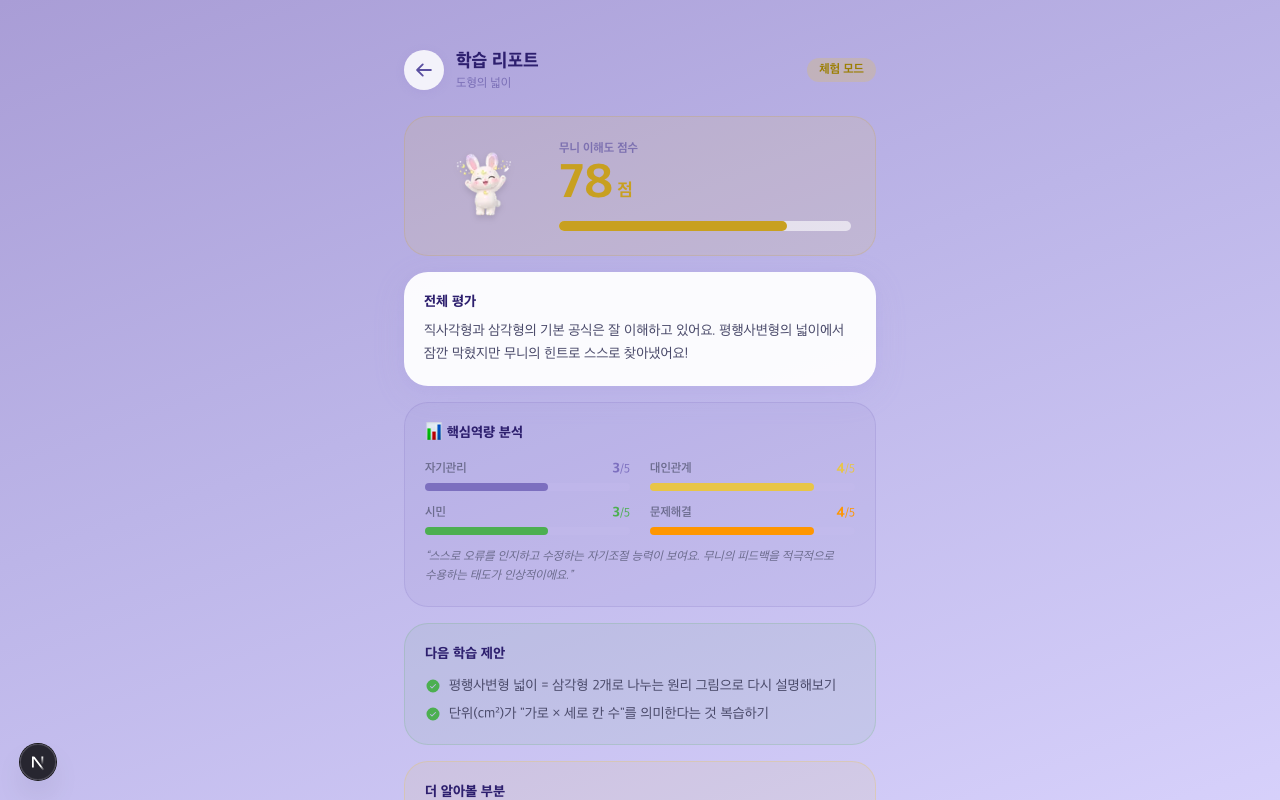
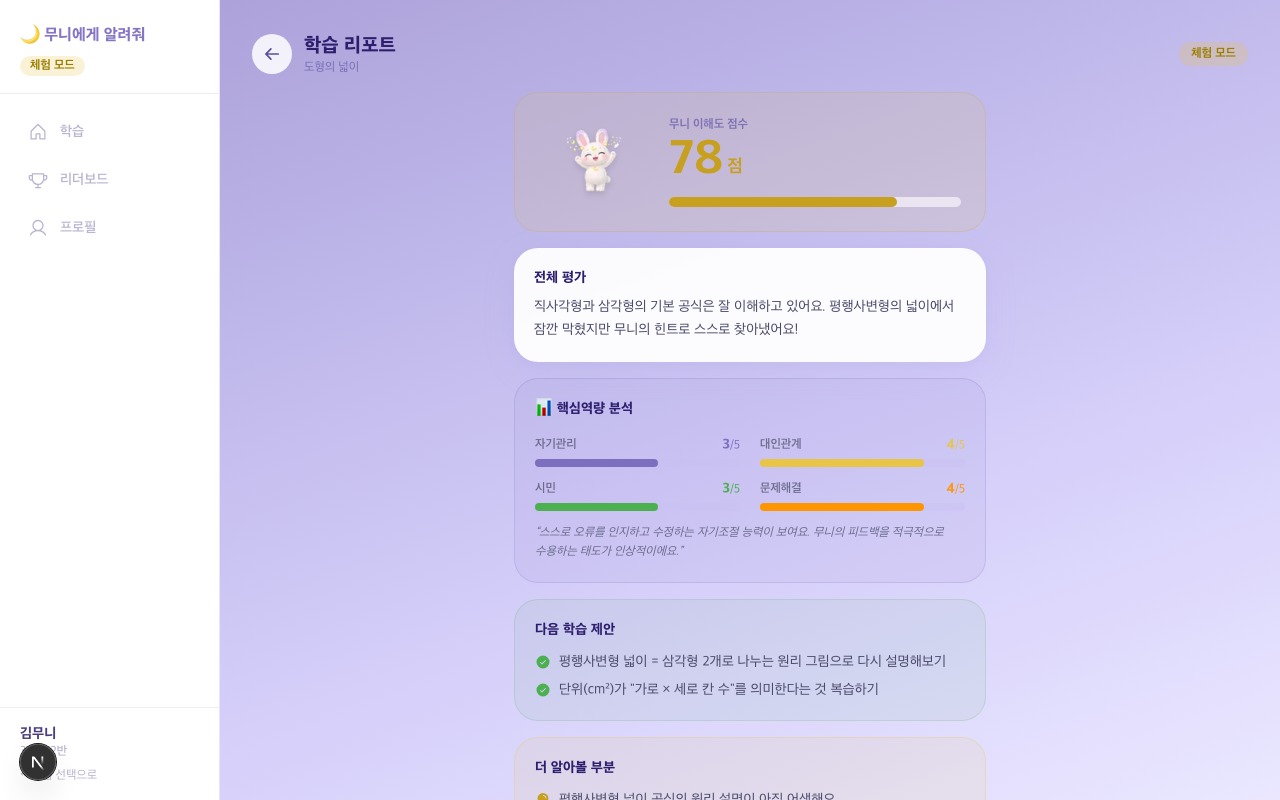
style: 데모 학생 리포트 디자인 통일 — 좌측 네비 + 라벤더 배경
- 독립 레이아웃 → 학생 홈/리더보드와 동일한 3컬럼 패턴
- 좌측 네비 (학습/리더보드/프로필) 추가
- 모바일 헤더 별도 처리
- 체험 선택 링크, 선생님 대시보드 링크 유지

diff --git a/src/app/demo/student/report/page.tsx b/src/app/demo/student/report/page.tsx
@@ -1,6 +1,6 @@
 import Image from 'next/image'
 import Link from 'next/link'
-import { ArrowLeft, CheckCircle, Lightbulb } from '@phosphor-icons/react/dist/ssr'
+import { ArrowLeft, CheckCircle, Lightbulb, House, Trophy, User } from '@phosphor-icons/react/dist/ssr'
 import DemoReportTutorial from '@/components/DemoReportTutorial'
 
 const DEMO_SCORE = 78
@@ -59,33 +59,70 @@ const clayCard = {
 
 export default function DemoReportPage() {
   return (
-    <div
-      className="min-h-screen font-sans pb-12"
-      style={{ background: 'linear-gradient(160deg, #A99DD6 0%, #BCB5E8 30%, #D5CFFA 65%, #EAE7FF 100%)' }}
-    >
-      <div className="max-w-lg mx-auto px-5">
-        {/* 헤더 */}
-        <div className="flex items-center gap-3 pt-12 pb-6">
-          <Link
-            href="/demo/student"
-            className="flex items-center justify-center w-10 h-10 rounded-full"
-            style={{ background: 'rgba(255,255,255,0.85)', boxShadow: '0 2px 8px rgba(150,135,210,0.18)' }}
-          >
-            <ArrowLeft size={20} weight="bold" style={{ color: '#5A4FA0' }} />
+    <div className="flex h-screen overflow-hidden font-sans"
+      style={{ background: 'linear-gradient(160deg, #A99DD6 0%, #BCB5E8 30%, #D5CFFA 65%, #EAE7FF 100%)' }}>
+
+      {/* 좌측 네비 */}
+      <nav className="hidden md:flex w-[220px] shrink-0 flex-col overflow-y-auto"
+        style={{ background: '#FFFFFF', borderRight: '1px solid rgba(200,188,245,0.40)' }}>
+        <div className="px-5 pt-6 pb-4">
+          <p className="font-extrabold text-base" style={{ color: '#8575C4' }}>🌙 무니에게 알려줘</p>
+          <span className="mt-2 inline-flex rounded-full px-2.5 py-0.5 text-xs font-bold"
+            style={{ background: 'rgba(232,197,71,0.22)', color: '#9B7E00' }}>체험 모드</span>
+        </div>
+        <div style={{ height: 1, background: 'rgba(200,188,245,0.30)' }} />
+        <div className="flex-1 flex flex-col gap-1 px-3 py-4">
+          <Link href="/demo/student" className="flex items-center gap-3 px-4 py-3 rounded-full transition-colors hover:bg-purple-50/60" style={{ color: '#B8B5D0' }}>
+            <House size={20} weight="regular" />
+            <span className="font-semibold text-sm">학습</span>
           </Link>
-          <div>
+          <Link href="/demo/student/leaderboard" className="flex items-center gap-3 px-4 py-3 rounded-full transition-colors hover:bg-purple-50/60" style={{ color: '#B8B5D0' }}>
+            <Trophy size={20} weight="regular" />
+            <span className="font-semibold text-sm">리더보드</span>
+          </Link>
+          <div className="flex items-center gap-3 px-4 py-3 rounded-full" style={{ color: '#B8B5D0' }}>
+            <User size={20} weight="regular" />
+            <span className="font-semibold text-sm">프로필</span>
+          </div>
+        </div>
+        <div style={{ borderTop: '1px solid rgba(200,188,245,0.30)' }} className="px-5 py-4">
+          <p className="font-extrabold text-sm" style={{ color: '#4A3E80' }}>김무니</p>
+          <p className="text-xs" style={{ color: '#A8A5C0' }}>3학년 2반</p>
+          <Link href="/demo" className="mt-2 block text-xs transition-opacity hover:opacity-70" style={{ color: '#B8B5D0' }}>← 체험 선택으로</Link>
+        </div>
+      </nav>
+
+      {/* 메인 콘텐츠 */}
+      <main className="flex-1 overflow-y-auto pb-12">
+        {/* 모바일 헤더 */}
+        <div className="md:hidden px-4 pt-4 pb-2 flex items-center gap-3">
+          <Link href="/demo/student" className="flex items-center justify-center w-10 h-10 rounded-full"
+            style={{ background: 'rgba(255,255,255,0.85)' }}>
+            <ArrowLeft size={18} weight="bold" style={{ color: '#5A4FA0' }} />
+          </Link>
+          <div className="flex-1">
             <h1 className="text-lg font-black" style={{ color: '#2D1F6E' }}>학습 리포트</h1>
             <p className="text-xs" style={{ color: 'rgba(90,79,160,0.65)' }}>{DEMO_UNIT_TITLE}</p>
           </div>
-          <span
-            className="ml-auto rounded-full px-3 py-1 text-xs font-bold shrink-0"
-            style={{ background: 'rgba(232,197,71,0.25)', color: '#9B7E00' }}
-          >
-            체험 모드
-          </span>
+          <span className="rounded-full px-3 py-1 text-xs font-bold"
+            style={{ background: 'rgba(232,197,71,0.25)', color: '#9B7E00' }}>체험 모드</span>
         </div>
 
-        <div className="space-y-4">
+        {/* 데스크탑 헤더 */}
+        <div className="hidden md:flex items-center gap-3 px-8 pt-8 pb-4">
+          <Link href="/demo/student" className="flex items-center justify-center w-10 h-10 rounded-full"
+            style={{ background: 'rgba(255,255,255,0.85)' }}>
+            <ArrowLeft size={18} weight="bold" style={{ color: '#5A4FA0' }} />
+          </Link>
+          <div>
+            <h1 className="text-xl font-black" style={{ color: '#2D1F6E' }}>학습 리포트</h1>
+            <p className="text-xs" style={{ color: 'rgba(90,79,160,0.65)' }}>{DEMO_UNIT_TITLE}</p>
+          </div>
+          <span className="ml-auto rounded-full px-3 py-1 text-xs font-bold"
+            style={{ background: 'rgba(232,197,71,0.25)', color: '#9B7E00' }}>체험 모드</span>
+        </div>
+
+        <div className="max-w-lg mx-auto px-5 space-y-4">
           {/* 이해도 점수 카드 */}
           <div
             className="rounded-3xl p-6 flex items-center gap-5"
@@ -100,12 +137,12 @@ export default function DemoReportPage() {
                 <span className="text-lg font-bold mb-1" style={{ color: scoreColor }}>점</span>
               </div>
               <div className="mt-3 h-2.5 rounded-full" style={{ background: 'rgba(255,255,255,0.60)' }}>
-                <div className="h-full rounded-full transition-all" style={{ width: `${DEMO_SCORE}%`, background: scoreColor }} />
+                <div className="h-full rounded-full" style={{ width: `${DEMO_SCORE}%`, background: scoreColor }} />
               </div>
             </div>
           </div>
 
-          {/* 요약 */}
+          {/* 전체 평가 */}
           <div className="p-5" style={clayCard}>
             <p className="text-sm font-extrabold mb-2" style={{ color: '#2D1F6E' }}>전체 평가</p>
             <p className="text-sm leading-relaxed" style={{ color: '#4A4A6A' }}>{DEMO_SUMMARY}</p>
@@ -165,16 +202,17 @@ export default function DemoReportPage() {
               {DEMO_PAIRS.map((pair, i) => (
                 <div key={i} className="space-y-2">
                   <div className="flex justify-end">
-                    <div className="max-w-[80%] rounded-2xl rounded-br-sm px-4 py-2.5 text-sm font-semibold"
-                      style={{ background: '#E8C547', color: '#1A1830' }}>
-                      {pair.student}
+                    <div className="rounded-2xl rounded-tr-sm px-4 py-2.5 max-w-[80%]"
+                      style={{ background: 'rgba(124,111,191,0.12)' }}>
+                      <p className="text-sm" style={{ color: '#2D1F6E' }}>{pair.student}</p>
                     </div>
                   </div>
-                  <div className="flex items-end gap-2">
-                    <Image src={`/mooni/${pair.expression}.png`} alt="무니" width={44} height={30} className="shrink-0" />
-                    <div className="max-w-[80%] rounded-2xl rounded-bl-sm px-4 py-2.5 text-sm"
-                      style={{ background: 'rgba(170,155,230,0.15)', color: '#3D3060' }}>
-                      {pair.mooni}
+                  <div className="flex items-start gap-2">
+                    <Image src={`/mooni/face-${pair.expression}.png`} alt="무니" width={28} height={28}
+                      className="rounded-full shrink-0 mt-0.5" style={{ background: 'rgba(232,197,71,0.15)' }} />
+                    <div className="rounded-2xl rounded-tl-sm px-4 py-2.5 max-w-[80%]"
+                      style={{ background: 'rgba(232,197,71,0.10)' }}>
+                      <p className="text-sm" style={{ color: '#4A4A6A' }}>{pair.mooni}</p>
                     </div>
                   </div>
                 </div>
@@ -182,6 +220,7 @@ export default function DemoReportPage() {
             </div>
           </div>
 
+          {/* 하단 버튼 */}
           <Link
             href="/demo/student"
             className="flex items-center justify-center w-full rounded-2xl py-4 font-extrabold text-sm transition-opacity hover:opacity-90"
@@ -197,7 +236,8 @@ export default function DemoReportPage() {
             이 리포트가 선생님 대시보드에 어떻게 보이는지 확인하기 →
           </Link>
         </div>
-      </div>
+      </main>
+
       <DemoReportTutorial />
     </div>
   )
